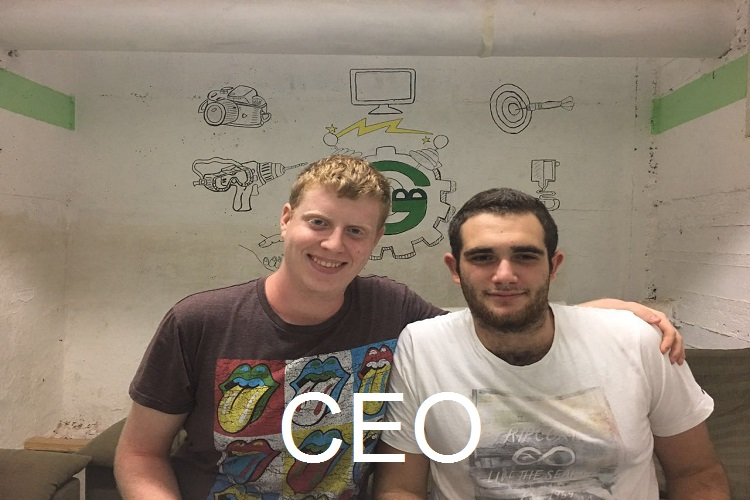
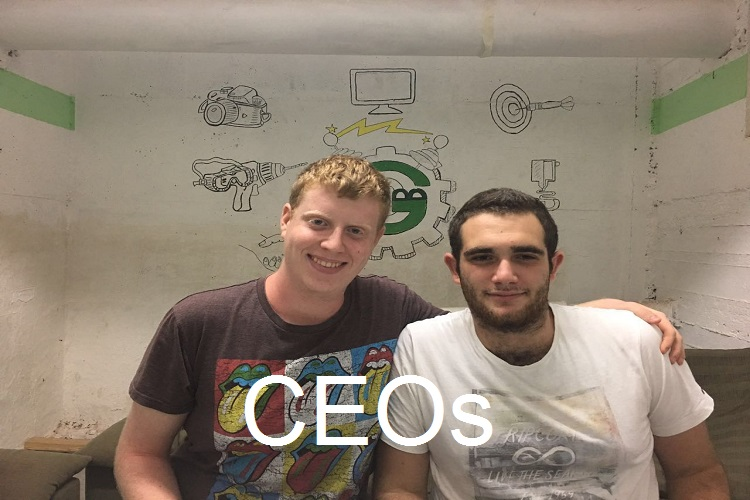
Made CEOs the first in both lists

Changed region(s): [[0.3067, 0.75, 0.6747, 0.93]]

diff --git a/index.html b/index.html
@@ -200,6 +200,21 @@
     <div class="container">
     <div style="margin-top: 20px;" class="container-fluid">
         <div class="row no-gutter">
+			<div class="col-lg-4 col-sm-6">
+                <a class="portfolio-box">
+                    <img src="img/ceo.jpg" class="img-responsive" alt="">
+                    <div class="portfolio-box-caption">
+                        <div class="portfolio-box-caption-content">
+                            <div class="project-category text-faded">
+                                CEO
+                            </div>
+                            <div class="project-name">
+                                Manage the team, make sure they follow the schedule, and solve issues within the team. Furthermore, they pursue ways to lift the team's morale and make sure the FRC experience is fun and enriching.
+                            </div>
+                        </div>
+                    </div>
+                </a>
+            </div>
             <div class="col-lg-4 col-sm-6">
                 <a class="portfolio-box">
                     <img src="img/software.jpg" class="img-responsive" alt="">
@@ -255,21 +270,6 @@
                             </div>
                             <div class="project-name">
                                 Produce videos and images that document major events in the team. In addition, manage the team's image and social network pages.
-                            </div>
-                        </div>
-                    </div>
-                </a>
-            </div>
-            <div class="col-lg-4 col-sm-6">
-                <a class="portfolio-box">
-                    <img src="img/ceo.jpg" class="img-responsive" alt="">
-                    <div class="portfolio-box-caption">
-                        <div class="portfolio-box-caption-content">
-                            <div class="project-category text-faded">
-                                CEO
-                            </div>
-                            <div class="project-name">
-                                Manage the team, make sure they follow the schedule, and solve issues within the team. Furthermore, they pursue ways to lift the team's morale and make sure the FRC experience is fun and enriching.
                             </div>
                         </div>
                     </div>
@@ -559,6 +559,8 @@
             <div class="col-lg-4 col-md-4 col-sm-4 col-xs-4 text-center">
                 <i class="fa fa-user fa-3x wow bounceIn text-shady"></i>
                 <p class="text-shady" style="font-family: 'Open Sans', 'Helvetica Neue', Arial, sans-serif">Name</p>
+                <p style="font-family: 'Open Sans', 'Helvetica Neue', Arial, sans-serif">Omer Harely</p>
+                <p style="font-family: 'Open Sans', 'Helvetica Neue', Arial, sans-serif">Roy Goldfarb</p>
                 <p style="font-family: 'Open Sans', 'Helvetica Neue', Arial, sans-serif">Arad Rozenblat</p>
                 <p style="font-family: 'Open Sans', 'Helvetica Neue', Arial, sans-serif">Roy Eldar</p>
                 <p style="font-family: 'Open Sans', 'Helvetica Neue', Arial, sans-serif">Ido Shyvits</p>
@@ -572,6 +574,8 @@
             <div class="col-lg-4 col-md-4 col-sm-4 col-xs-4 text-center">
                 <i class="fa fa-group fa-3x wow bounceIn text-shady"></i>
                 <p class="text-shady" style="font-family: 'Open Sans', 'Helvetica Neue', Arial, sans-serif">Team</p>
+                <p style="font-family: 'Open Sans', 'Helvetica Neue', Arial, sans-serif">CEO</p>
+                <p style="font-family: 'Open Sans', 'Helvetica Neue', Arial, sans-serif">CEO</p>
                 <p style="font-family: 'Open Sans', 'Helvetica Neue', Arial, sans-serif">Modelling</p>
                 <p style="font-family: 'Open Sans', 'Helvetica Neue', Arial, sans-serif">Modelling</p>
                 <p style="font-family: 'Open Sans', 'Helvetica Neue', Arial, sans-serif">Strategy & Chairman's</p>
@@ -584,7 +588,9 @@
             </div>
             <div class="col-lg-4 col-md-4 col-sm-4 col-xs-4 text-center">
                 <i class="fa fa-phone fa-3x wow bounceIn text-shady"></i>
-                <p class="text-shady" style="font-family: 'Open Sans', 'Helvetica Neue', Arial, sans-serif">Phone Number</p>
+                <p class="text-shady" style="font-family: 'Open Sans', 'Helvetica Neue', Arial, sans-serif">Phone Numbers</p>
+                <p style="font-family: 'Open Sans', 'Helvetica Neue', Arial, sans-serif">+972 54-458-6617</p>
+                <p style="font-family: 'Open Sans', 'Helvetica Neue', Arial, sans-serif">+972 54-536-1696</p>
                 <p style="font-family: 'Open Sans', 'Helvetica Neue', Arial, sans-serif">+972 54-730-9040</p>
                 <p style="font-family: 'Open Sans', 'Helvetica Neue', Arial, sans-serif">+972 54-247-4627</p>
                 <p style="font-family: 'Open Sans', 'Helvetica Neue', Arial, sans-serif">+972 50-458-4988</p>
